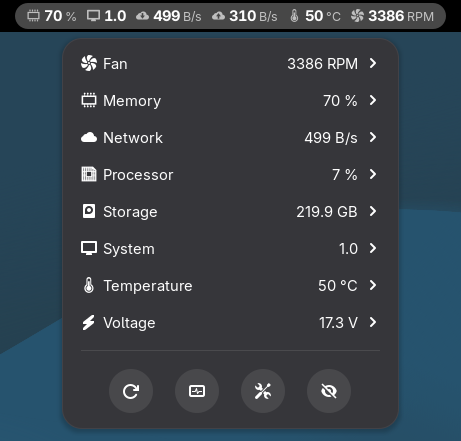
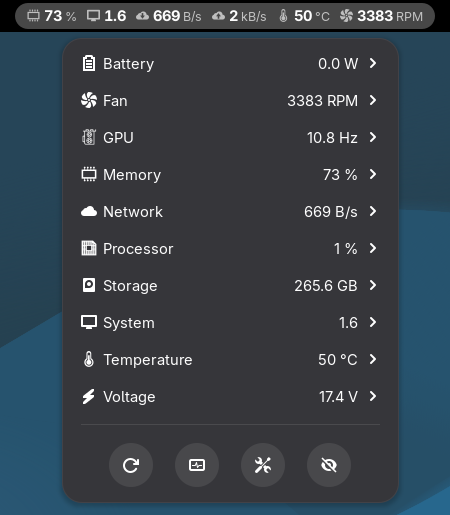
Show the battery, the processor frequency, network totals since boot, WiFi bars and screen redraws in the screenshots, set realistic colour thresholds, and take them at GNOME's own text scale

diff --git a/docs/screenshots/screenshots.js b/docs/screenshots/screenshots.js
@@ -6,15 +6,16 @@ import Shell from 'gi://Shell';
 import St from 'gi://St';
 import * as Main from 'resource:///org/gnome/shell/ui/main.js';
 import * as Scripting from 'resource:///org/gnome/shell/ui/scripting.js';
+import {writeCategoryEnabled} from '../../helpers/storedCatalog.js';
 
 // Room around what a screenshot shows, in pixels.
 const MARGIN = 12;
-// Colour rules for the pictures of threshold colours: green, then yellow from the second number on, then red.
+// Colour rules for the pictures of threshold colours, as a user would set them: green, then yellow from the second
+// number on, then red.
 const GREEN = '38 162 105', YELLOW = '229 165 10', RED = '224 27 36';
 const COLOR_RULES = {
-    'temperature-colors': ['0 ' + GREEN, '50 ' + YELLOW, '60 ' + RED].map(breakpoint => breakpoint + ' kind:temp'),
-    'memory-colors': ['0 ' + GREEN, '50 ' + YELLOW, '80 ' + RED].map(breakpoint => breakpoint + ' kind:percent'),
-    'processor-colors': ['0 ' + GREEN, '25 ' + YELLOW, '75 ' + RED].map(breakpoint => breakpoint + ' kind:percent')
+    'temperature-colors': ['0 ' + GREEN, '70 ' + YELLOW, '85 ' + RED].map(breakpoint => breakpoint + ' kind:temp'),
+    'memory-colors': ['0 ' + GREEN, '70 ' + YELLOW, '90 ' + RED].map(breakpoint => breakpoint + ' kind:percent')
 };
 // How many pictures are saved so far, and their size together.
 let savedPictures = 0, savedBytes = 0;
@@ -131,13 +132,35 @@ export async function run() {
 
     // The pictures are published, so the machine's public IP address stays out of them.
     settings.set_boolean('include-public-ip', false);
+    // The battery and the graphics card are switched off for a new user; switched on as the preferences do, their
+    // sensors can be pinned.
+    for (let categoryName of ['battery', 'gpu'])
+        writeCategoryEnabled(settings, categoryName, true);
     await button._discoverSensors();
 
     // The top bar: the sensors a new user has, which end with the download speed, and three more.
-    await pin([['network', find('network', 'device-tx')], ['temperature', sensors.catalog.temperature.header],
-        ['fan', sensors.catalog.fan.header]], true);
-    let more = [['processor', find('processor', 'usage')], ['storage', find('storage', '//free')],
-        ['voltage', sensors.catalog.voltage.header], ['system', find('system', 'uptime')]];
+    let download = ['network', find('network', 'device-rx')], upload = ['network', find('network', 'device-tx')];
+    let temperature = ['temperature', sensors.catalog.temperature.header];
+    let usual = [['memory', find('memory', 'usage')], ['system', find('system', 'load-1m')], download, upload, temperature,
+        ['fan', sensors.catalog.fan.header]];
+    await pin(usual, true);
+    // A few pictures show other sensors, to show what else can be pinned.
+    let battery = field => ['battery', sensors.catalog.battery.sensors.find(sensor => sensor.field == field)];
+    let precise = [battery('percentage'), battery('power-rate'), ['processor', find('processor', 'frequency')],
+        ['system', find('system', 'uptime')]];
+    let traffic = [download, upload, ['network', find('network', 'boot-rx')], ['network', find('network', 'boot-tx')],
+        ['temperature', find('temperature', 'coretemp/temp1') ?? sensors.catalog.temperature.header]];
+    let more = [['network', find('network', 'wifi-link-quality')], battery('percentage'), ['gpu', find('gpu', 'refresh-rate')],
+        ['storage', find('storage', '//free')]];
+    let topBarWith = async (pinned, name, options) => {
+        await pin(usual, false);
+        await pin(pinned, true);
+        // Screen redraws are counted over the second after they came on screen.
+        await Scripting.sleep(1100);
+        await topBar(name, options);
+        await pin(pinned, false);
+        await pin(usual, true);
+    };
     // Every picture once in the Shell's dark style and once in its light style, whose pictures end in "-light".
     // The Shell is dark unless the desktop asks for light.
     let desktop = new Gio.Settings({schema_id: 'org.gnome.desktop.interface'});
@@ -152,12 +175,10 @@ export async function run() {
         await topBar('top-bar-plain' + style, {'emphasize-values': false});
         await topBar('top-bar-gnome-icons' + style, {'icon-style': 1});
         await topBar('top-bar-no-icons' + style, {'hide-icons': true});
-        await topBar('top-bar-precision' + style, {'use-higher-precision': true});
-        await topBar('top-bar-fahrenheit-bits' + style, {'unit': 1, 'network-speed-format': 1});
+        await topBarWith(precise, 'top-bar-precision' + style, {'use-higher-precision': true});
+        await topBarWith(traffic, 'top-bar-fahrenheit-bits' + style, {'unit': 1, 'network-speed-format': 1});
         await topBar('top-bar-colors' + style, COLOR_RULES);
-        await pin(more, true);
-        await topBar('top-bar-many' + style);
-        await pin(more, false);
+        await topBarWith(more, 'top-bar-many' + style);
 
         await menu('menu' + style);
         await menu('menu-network' + style, 'network');

diff --git a/docs/screenshots/README.md b/docs/screenshots/README.md
@@ -6,17 +6,15 @@ By default, the top bar shows memory usage, system load and download speed. For 
 
 | Setting | Result |
 |---|---|
-| Default settings | ![](top-bar.png)<br>![](top-bar-light.png) |
-| Top Bar › **Emphasize values** disabled. When enabled, icons and units are drawn lighter and smaller than the numbers. | ![](top-bar-plain.png)<br>![](top-bar-plain-light.png) |
-| General › **Icon style** set to GNOME. | ![](top-bar-gnome-icons.png)<br>![](top-bar-gnome-icons-light.png) |
-| Top Bar › **Hide icons** enabled. The icons in the menu stay. | ![](top-bar-no-icons.png)<br>![](top-bar-no-icons-light.png) |
-| General › **Use higher precision** enabled. Values have one more decimal place, and uptimes include seconds. | ![](top-bar-precision.png)<br>![](top-bar-precision-light.png) |
-| Temperature › **Unit** set to °F and Network › **Measure in** set to Bits. | ![](top-bar-fahrenheit-bits.png)<br>![](top-bar-fahrenheit-bits-light.png) |
-| **Threshold Colors** defined on the Temperature and Memory pages. A color applies from its threshold value up to the next one. | ![](top-bar-colors.png)<br>![](top-bar-colors-light.png) |
+| Default settings | ![](top-bar.png) ![](top-bar-light.png) |
+| Top Bar › **Emphasize values** disabled. When enabled, icons and units are drawn lighter and smaller than the numbers. | ![](top-bar-plain.png) ![](top-bar-plain-light.png) |
+| General › **Icon style** set to GNOME. | ![](top-bar-gnome-icons.png) ![](top-bar-gnome-icons-light.png) |
+| Top Bar › **Hide icons** enabled. The icons in the menu stay. | ![](top-bar-no-icons.png) ![](top-bar-no-icons-light.png) |
+| General › **Use higher precision** enabled. Values have one more decimal place, and uptimes include seconds. Shown: battery charge, battery power rate, processor frequency and uptime. | ![](top-bar-precision.png) ![](top-bar-precision-light.png) |
+| Temperature › **Unit** set to °F and Network › **Measure in** set to Bits. Shown: download and upload speed, downloaded and uploaded since boot, and the processor's temperature. | ![](top-bar-fahrenheit-bits.png) ![](top-bar-fahrenheit-bits-light.png) |
+| **Threshold Colors** defined on the Temperature and Memory pages. A color applies from its threshold value up to the next one. | ![](top-bar-colors.png) ![](top-bar-colors-light.png) |
 
-Each example is shown in the GNOME dark style and in the light style.
-
-Any value in the menu can be pinned to the top bar. The following screenshots show four additional values: processor usage, free storage, voltage and uptime.
+Any value in the menu can be pinned to the top bar. The following screenshots show four others: the WiFi signal with its bars, battery charge, screen redraws and free storage.
 
 ![](top-bar-many.png)
 
